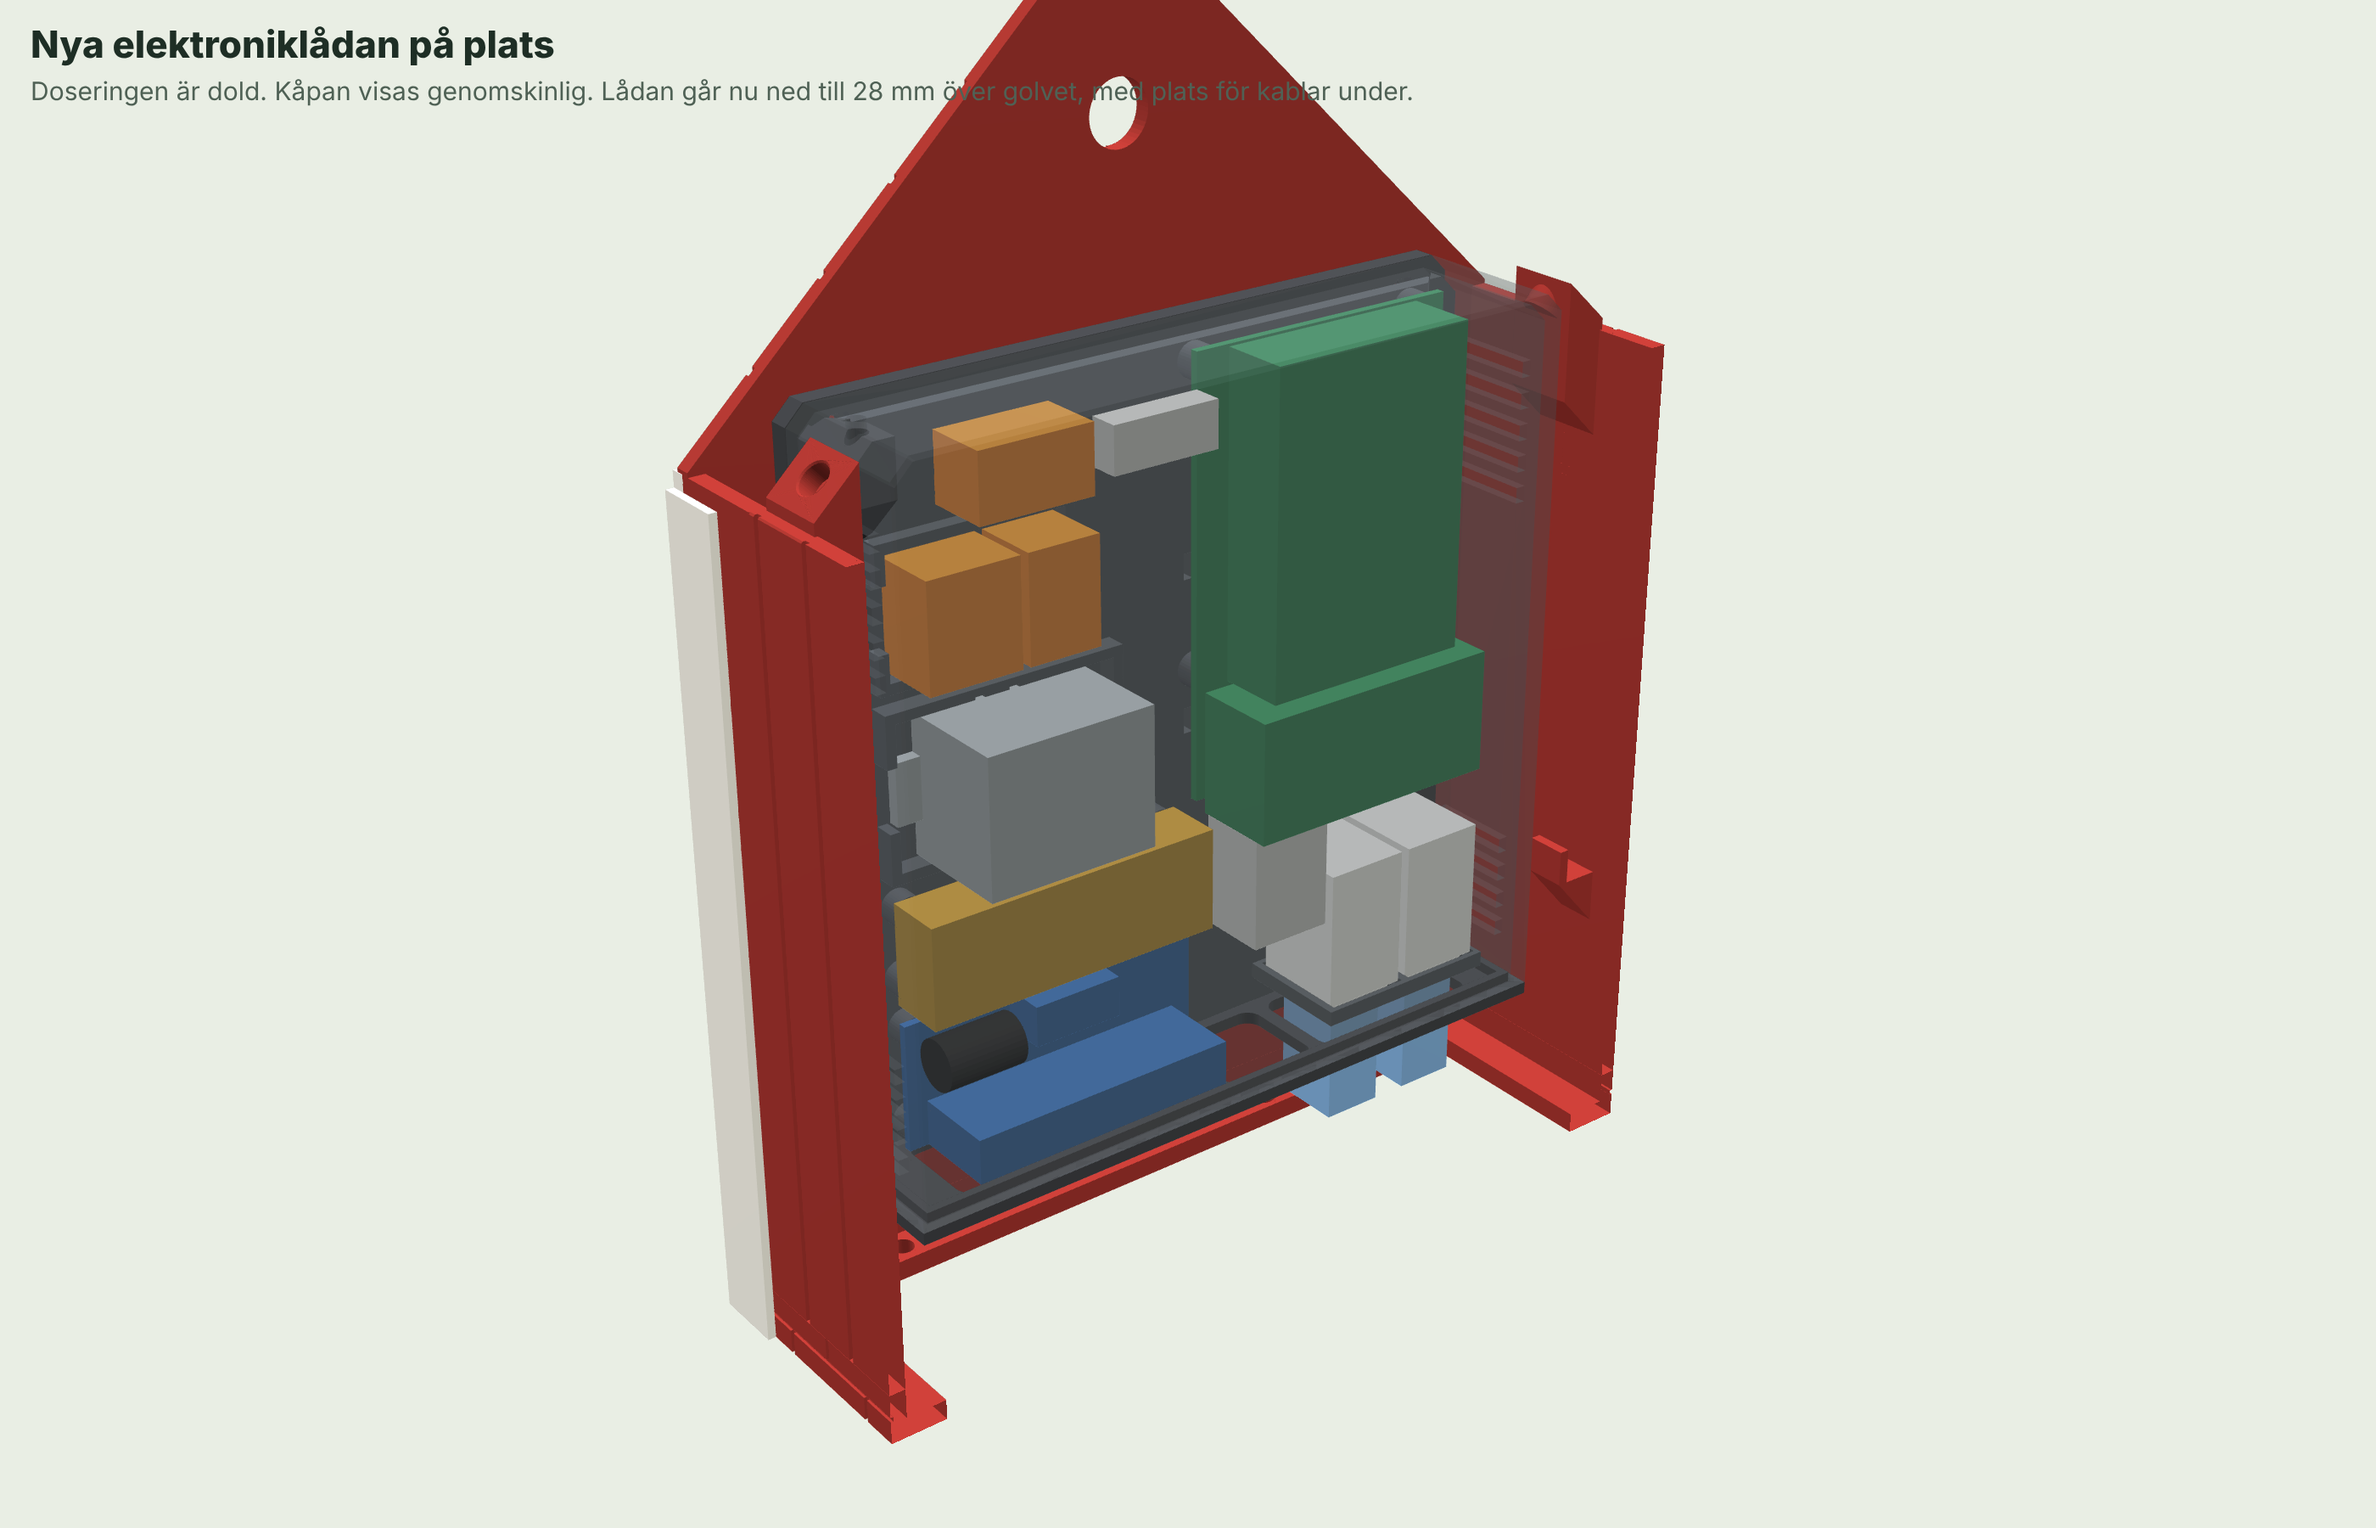
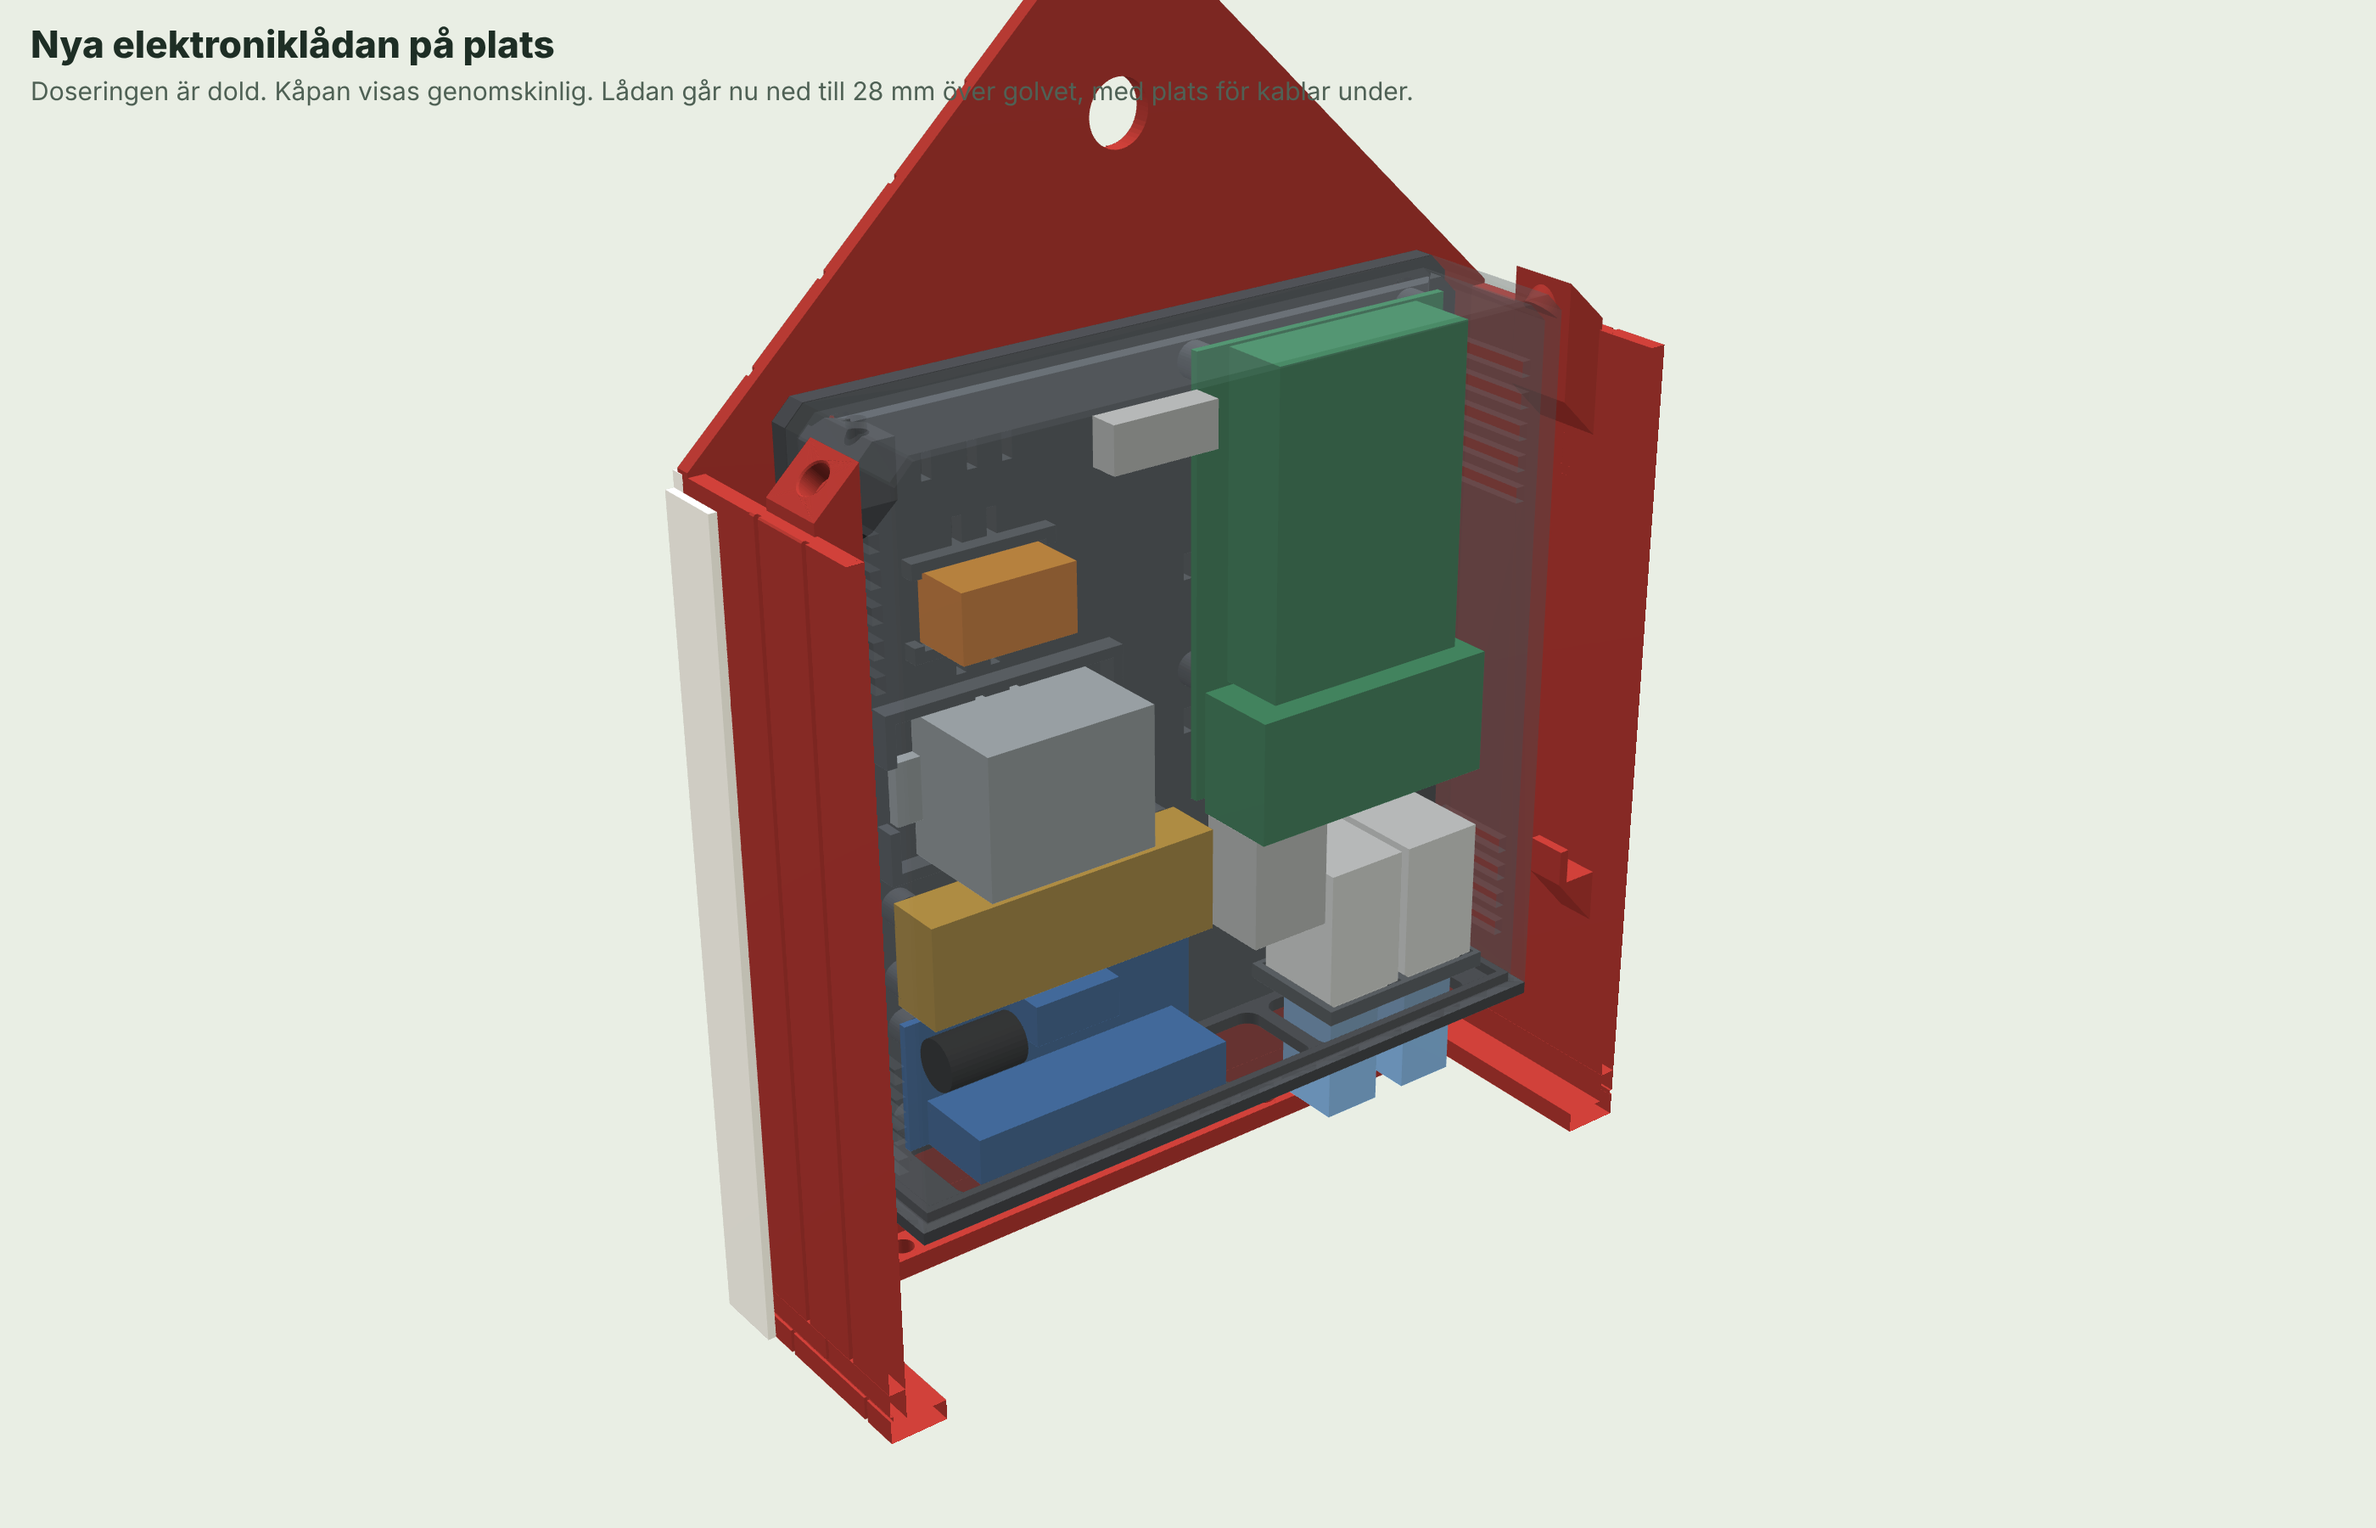
Elektroniklådan: inga Wago-klämmor, egen vagga för DC-jacket
Båda omvandlarna kopplas direkt i DC-jackets skruvplint enligt
beslutsloggen. Ytan uppe till vänster lämnas fri för fler kablar.

Claude-Session: https://claude.ai/code/session_018xksXR9gb4yYHdCGmvWeKU

Changed region(s): [[0.3729, 0.2489, 0.4661, 0.4667]]

diff --git a/cad/elektroniklada/src/el_lada.py b/cad/elektroniklada/src/el_lada.py
@@ -175,9 +175,9 @@ EKM = dict(name='ekm006', pos=(-59.0, 61.0), size=(60.0, 20.0), standoff=4.0, in
            holes=[(3.0, 3.0), (57.0, 3.0), (3.0, 17.0), (57.0, 17.0)])            # 5 V till Pi:n, utgången till höger
 COMPONENTS = [PI, PCA, EKM]
 SERVO_PSU = dict(x0=-59.0, x1=-10.0, z0=84.0, z1=116.0)    # vagga för servoomvandlaren (ca 38 × 27 × 23, med öron 52) och buntband
-WAGO = dict(x0=-59.0, x1=-19.0, z0=119.0, z1=146.0)        # plats för DC-jacket och två Wago 221, med buntband
+DCJ = dict(x0=-52.0, x1=-23.0, z0=123.0, z1=141.0)         # vagga för DC-jacket med skruvplint (båda omvandlarna kopplas direkt i plinten), buntband ovanför och nedanför
 KEY = dict(xs=(33.0, 51.5), z=36.0, w=14.8, d=19.3, t=1.6) # keystone-uttag, uttaget nedåt (kabeln in underifrån genom golvet)
-TIE_SLOTS = [(11.0, 64.0), (11.0, 95.0), (11.0, 125.0), (-36.5, 88.0), (-36.5, 112.0), (-49.0, 132.0), (-30.0, 132.0), (-34.0, 156.0)]
+TIE_SLOTS = [(11.0, 64.0), (11.0, 95.0), (11.0, 125.0), (-36.5, 88.0), (-36.5, 112.0), (-37.5, 120.0), (-37.5, 143.5), (-34.0, 156.0), (-50.0, 156.0)]
 WINDOWS = [sbox(14.0, 92.0, 52.0, 158.0).buffer(-3).buffer(3, 12)]   # bakom Pi:n: luft och mindre plast
 
 def keystone_shelf():
@@ -211,7 +211,7 @@ def platta():
         for dx, dz in c['holes']:
             s, h = standoff(x0 + dx, z0 + dz, c['standoff'], c['ins']); adds.append(s); cuts.append(h)
     a, cu = keystone_shelf(); adds += a; cuts += cu
-    adds.append(cradle(SERVO_PSU)); adds.append(cradle(WAGO, 3.0))
+    adds.append(cradle(SERVO_PSU)); adds.append(cradle(DCJ, 3.0))
     for x, z in TIE_SLOTS:
         for dx in (-3.5, 3.5):
             cuts.append(box(x + dx - 1.0, x + dx + 1.0, YP0 - 6, YP1 + 1, z - 2.5, z + 2.5))
@@ -238,8 +238,7 @@ def ghosts():
     g['ekm006'] = box(x0, x0 + w, YP0 - 4 - 1.6 - 10.0, YP0 - 4.0, z0, z0 + h)
     r = SERVO_PSU; zc = (r['z0'] + r['z1']) / 2; g['servoomvandlare'] = U([box(r['x0'] + 7.5, r['x1'] - 7.5, YP0 - 23.0, YP0, zc - 13.5, zc + 13.5),
                                            box(r['x0'] + 2.5, r['x1'] - 2.5, YP0 - 2.5, YP0, zc - 6.0, zc + 6.0)])
-    r = WAGO; g['wago'] = U([box(r['x0'] + 3, r['x0'] + 21.5, YP0 - 13.5, YP0, r['z0'] + 3, r['z0'] + 23.5), box(r['x0'] + 23, r['x0'] + 41.5 - 4, YP0 - 13.5, YP0, r['z0'] + 3, r['z0'] + 23.5)])
-    g['dcjack'] = box(-45.0, -22.0, YP0 - 13.0, YP0, 149.0, 162.0)                   # DC-jack med skruvplint (ungefär)
+    g['dcjack'] = box(-49.0, -26.0, YP0 - 13.0, YP0, 125.5, 138.5)                   # DC-jack med skruvplint (ungefär 23 × 13 × 13)
     for i, xc in enumerate(KEY['xs']):
         yc = YP0 - 11.75
         g['keystone%d' % (i + 1)] = U([box(xc - 8.4, xc + 8.4, yc - 9.6, yc + 9.6, KEY['z'] + 2.4, KEY['z'] + 30.0), box(xc - 7.2, xc + 7.2, yc - 8.0, yc + 8.0, KEY['z'] - 2.0, KEY['z'] + 2.4)])

diff --git a/cad/elektroniklada/src/art_steg4.py b/cad/elektroniklada/src/art_steg4.py
@@ -20,7 +20,7 @@ dec = lambda q: trimesh.Trimesh(np.frombuffer(base64.b64decode(q['pos']), '<f4')
 oldvol = {q['name']: abs(dec(q).volume) for q in P if q['name'] in ('elektroniklada', 'ellock', 'monteringsplatta')}
 NEW = {'elektroniklada': ('elbakstycke', '16_elbakstycke.stl', 'Svart PETG. Skruvas fast utifrån genom bakväggen med fyra M3 × 10 och muttrar i fickorna. Golv med tre stora kabelöppningar, skenor för komponentplattan och ett torn med en M3-gänga för kåpans skruv'),
        'ellock': ('elkapa', '16b_elkapa.stl', 'Svart PETG. Framsida, sidor och tak i ett stycke. Lyfts rakt upp när taket är av, hålls av en M3 uppifrån i tornet'),
-       'monteringsplatta': ('komponentplatta', '24_komponentplatta.stl', 'Svart PETG. Glider i skenorna och lyfts rakt upp. Gängor för Pi 5 (4 × M2,5), PCA9685 och EKM006 (8 × M2), vaggor och buntbandshål för servoomvandlaren, DC-jacket och Wago, hylla för två keystone-uttag'),
+       'monteringsplatta': ('komponentplatta', '24_komponentplatta.stl', 'Svart PETG. Glider i skenorna och lyfts rakt upp. Gängor för Pi 5 (4 × M2,5), PCA9685 och EKM006 (8 × M2), vaggor och buntbandshål för servoomvandlaren och DC-jacket (båda omvandlarna kopplas direkt i DC-jackets plint), hylla för två keystone-uttag'),
        'elpackning': ('elpackning', '17_elpackning_tpu.stl', 'TPU 95A, 1,2 mm. Ligger mellan bakstycket och bakväggen')}
 out = []
 for q in P:
@@ -61,7 +61,7 @@ rep('{title:"Elektroniken", text:"Skruva fast elektroniklådan utifrån genom ba
     '{title:"Elektroniken", text:"Skruva fast bakstycket utifrån genom bakväggen med packningen emellan. Skjut ner komponentplattan med elektroniken i skenorna, koppla in kablarna genom golvet och lägg på kåpan med en skruv uppifrån.", parts:["elpackning","elektroniklada","monteringsplatta","ellock"]}')
 
 rep('<td>Från Pi:ns USB-port upp till modemet på elektroniklådans lock.</td>', '<td>Behövs bara om ett USB-modem används i stället för routern.</td>')
-rep('<td>Fäster omvandlare och kablar i monteringsplattans hålraster.</td>', '<td>Fäster servoomvandlaren, Wago-klämmorna och kablarna i komponentplattans buntbandshål.</td>')
+rep('<td>Fäster omvandlare och kablar i monteringsplattans hålraster.</td>', '<td>Fäster servoomvandlaren, DC-jacket och kablarna i komponentplattans buntbandshål.</td>')
 # ---- utskriftsplattorna
 L = s.split('\n'); pli = [n for n, l in enumerate(L) if 'id="platedata"' in l][0]
 pd = re.sub(r'^<script[^>]*>', '', L[pli]); pd = re.sub(r'</script>.*$', '', pd); PL = json.loads(pd)

diff --git a/cad/elektroniklada/src/geo_el.py b/cad/elektroniklada/src/geo_el.py
@@ -9,7 +9,7 @@ L=lambda n: trimesh.load('ut/asm/%s.stl'%n)
 for n in ('elbakstycke','elkapa','komponentplatta','elpackning'): put(n,L(n))
 sp={f[:-4]:trimesh.load('ut/spoken/'+f) for f in os.listdir('ut/spoken')}
 groups={'k_pi':['pi5'],'k_pi_kontakt':['pi5_natverkskontakt','pi5_usbc'],'k_pca':['pca9685'],'k_kond':['kondensator'],'k_ekm':['ekm006'],
-        'k_psu':['servoomvandlare'],'k_wago':['wago','dcjack'],'k_key':['keystone1','keystone2'],'k_rj':['rj45_1','rj45_2']}
+        'k_psu':['servoomvandlare'],'k_wago':['dcjack'],'k_key':['keystone1','keystone2'],'k_rj':['rj45_1','rj45_2']}
 for g,ns in groups.items():
     m=trimesh.util.concatenate([sp[n] for n in ns])
     put(g,m); put(g+'_upp',m,(0,0,120))

diff --git a/cad/elektroniklada/README.md b/cad/elektroniklada/README.md
@@ -22,8 +22,9 @@ Utskriftskontroll lager för lager (`src/printchk.py`): inga svävande öar. Ost
   flatkabel och 12 V) och höger 36 mm (keystone-uttagen). Varje öppning är ungefär 20 mm djup.
 * Komponentplattan, sett framifrån:
   * Längst ned till vänster: PCA9685, servokontakterna nedåt mot golvöppningen.
-  * Ovanför: EKM006 (5 V till Pi:n), servoomvandlaren i en vagga med buntband, och två Wago 221.
-  * Högst upp till vänster: DC-jacket.
+  * Ovanför: EKM006 (5 V till Pi:n) och servoomvandlaren i en vagga med buntband.
+  * Ovanför den: DC-jacket i en egen vagga med buntband. Båda omvandlarna kopplas direkt i jackets skruvplint, två ledare per skruv (beslutsloggen 2026-11-25). Inga Wago-klämmor.
+  * Högst upp till vänster: fri yta med buntbandshål för fler kablar.
   * Höger: Raspberry Pi 5, stående, med USB och nätverk nedåt mot mittöppningen.
   * Nere till höger: hylla för två keystone-uttag. Kablarna kommer in underifrån.
 * Avstånd till kåpans insida framtill: Pi 2,0 mm, servoomvandlaren 1,6 mm, PCA9685 2,6 mm, keystone 3,2 mm.
@@ -50,7 +51,7 @@ M3 × 10 i bakväggen: spetsen ska inte nå komponentplattan, som sitter 1 mm fr
 
 ## Mät innan utskrift
 * Servoomvandlaren: vaggan är 49 × 32 mm. Hålen i öronen är inte kända, så den hålls med buntband.
-* DC-jacket: platsen är ungefär 23 × 13 mm, och det fästs med buntband.
+* DC-jacket (Electrokit 41004709, 2,1 × 5,5 mm med skruvplint): vaggan är 25 × 14 mm inuti och jacket fästs med buntband [mät jacket].
 * Pi 5 med Active Cooler: räknat med 4 mm distans + 1,6 mm kort + 13,7 mm kylare.
 
 ## Isärtagning
